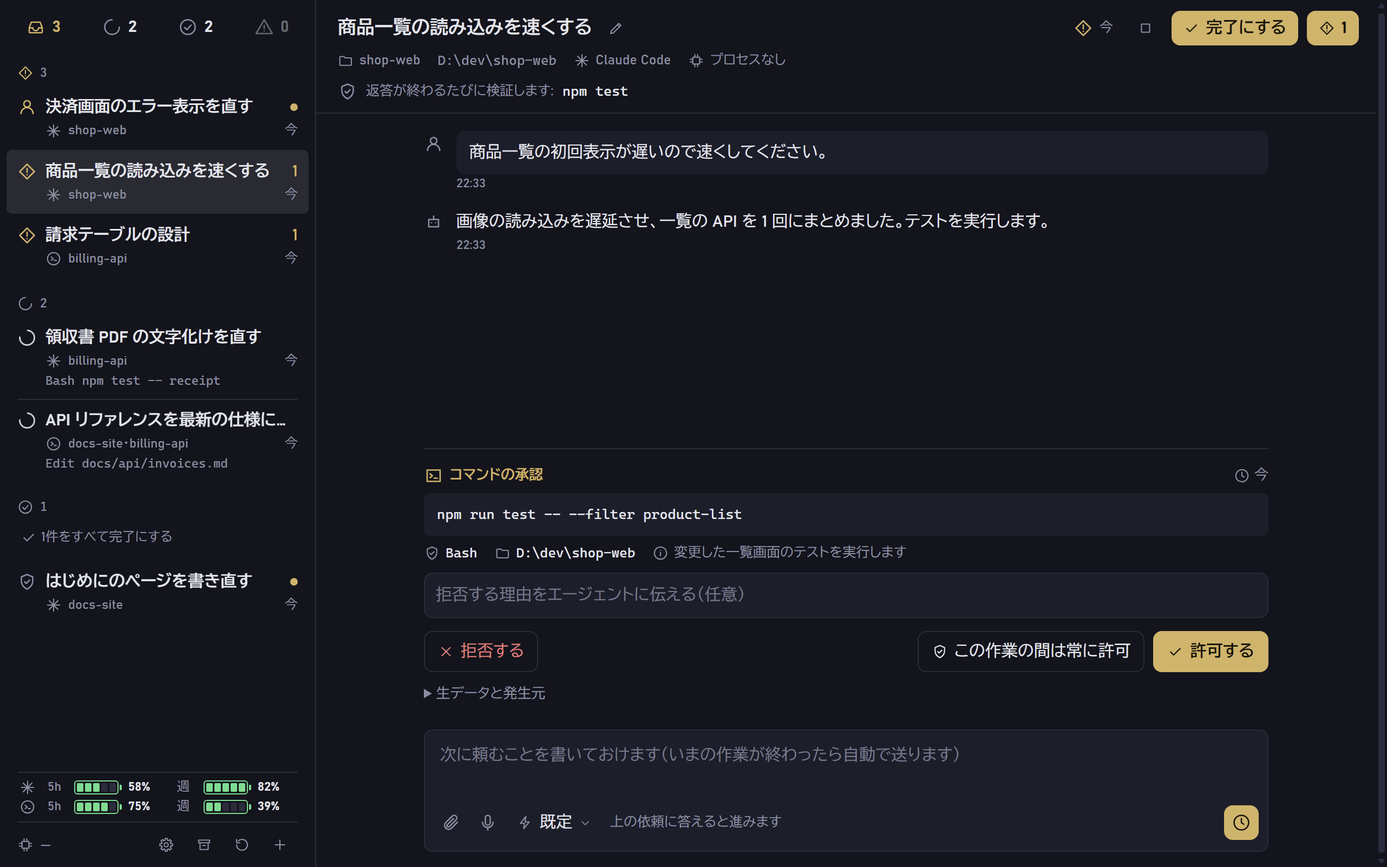
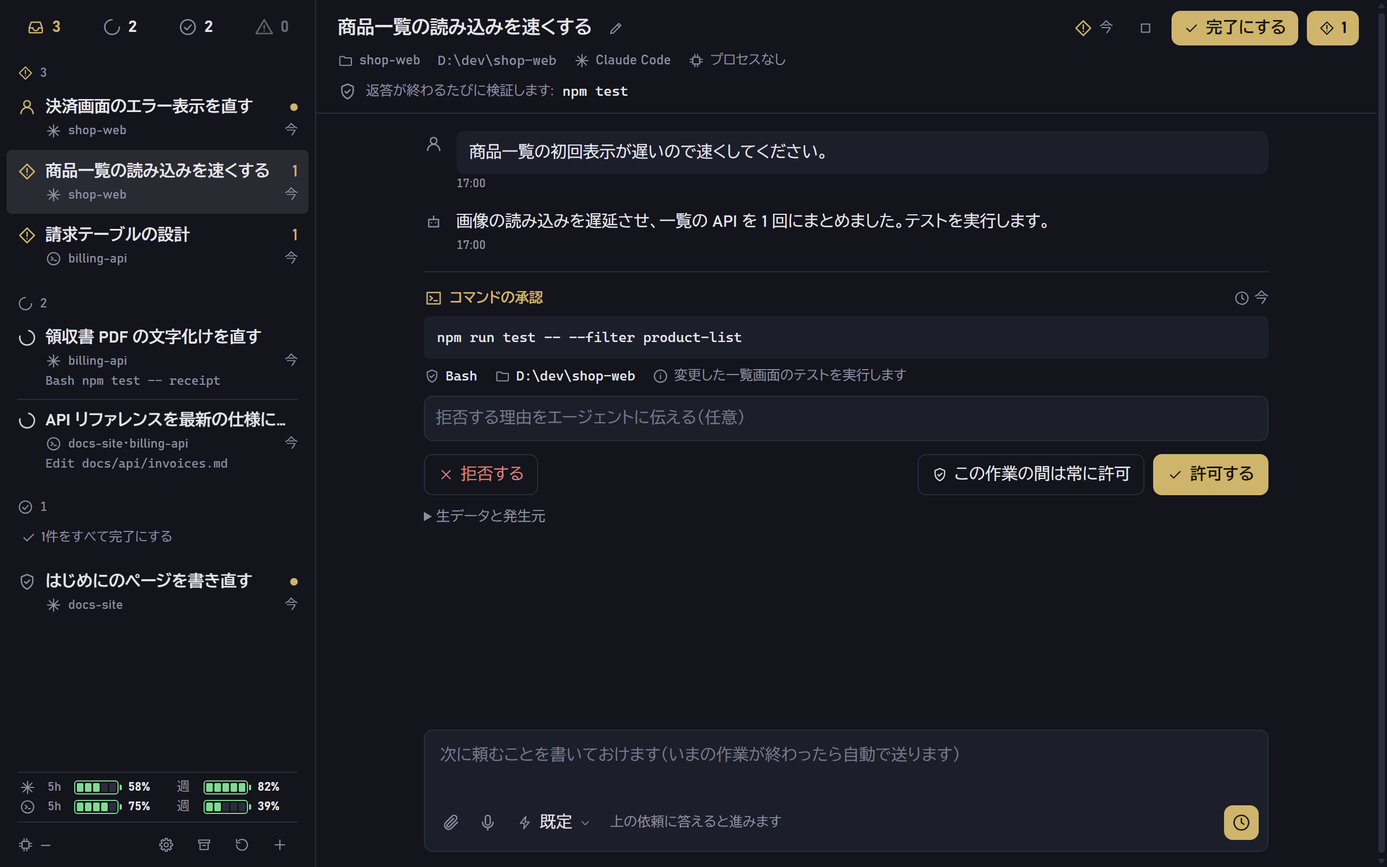
v0.7.0 の更新を反映
Synced-From: 8a344ba3d698fe49355c7bd3845fdda2202cd3e9

diff --git a/packages/provider-shared/src/reply-questions.ts b/packages/provider-shared/src/reply-questions.ts
@@ -9,6 +9,8 @@
 //   - the helper model decides what belongs together (it reads the meaning; the rules below are its instructions)
 //   - this module turns its JSON into a clean, bounded list (pure, no model): it never invents a split by itself, it only
 //     cleans up what came back (empty, duplicate and over-long parts) so the screen always gets something sane
+//   - a closed question ("進めてよいですか") offers no options in its words, but can be answered with yes or no: those two
+//     are added, when the model says so (`yesNo`) or the question's own ending plainly asks for it (isClosedQuestion)
 //
 // Kept small on purpose: the inbox shows every question of a reply in one ticket, answered with one "send" button.
 
@@ -30,7 +32,7 @@ export const MAX_QUESTIONS = 4;
 export const MAX_OPTIONS = 6;
 
 /** The JSON shape the helper model is asked to give, as it appears in its instructions. */
-export const QUESTIONS_SHAPE = '"questions": [{"text": "質問文", "multiSelect": true または false, "options": [{"label": "短い選択肢名", "description": "補足または null"}]}]';
+export const QUESTIONS_SHAPE = '"questions": [{"text": "質問文", "multiSelect": true または false, "yesNo": true または false, "options": [{"label": "短い選択肢名", "description": "補足または null"}]}]';
 
 /** The helper model's instructions for `questions`. */
 export const QUESTIONS_RULES = [
@@ -38,7 +40,30 @@ export const QUESTIONS_RULES = [
   'questions は「決めること」1つにつき1問にする。返答が別々のことを決めさせている（対象・話題・課題が違う選択肢の組がある）なら、選択肢を一つの問題にまとめず、決めることごとに別の問題に分ける。例: 「EXP-2を採用／EXP-2を破棄／EXP-3を実施」と「作者アドレスを切り替える／作者アドレスの設定を戻す」は、決めることが違うので2問にする。',
   '1問の options には、その問いへの答えになるものだけを入れる（返答の言葉を使う、最大6個）。text はその問いだけを短く書く（ほかの問いの内容を混ぜない）。返答に選択肢が示されていなければ options は空配列。',
   'multiSelect: その問いの選択肢がどれか1つを選ぶ択一なら false。いくつ選んでもよい（並べて実行できる別々の作業の候補など）なら true。',
+  'yesNo: 「はい」か「いいえ」で答えられる問い（「進めてよいですか」「マージしますか」「この方針で大丈夫ですか」など）なら true。選択肢の中から選ぶ問いや、内容を答える問い（「どちらにしますか」「名前は何にしますか」）なら false。',
 ].join('\n');
+
+/** The two answers a closed question is given when it offers none of its own. */
+export const YES_NO: ReplyOption[] = [
+  { label: 'はい', description: null },
+  { label: 'いいえ', description: null },
+];
+
+/** Words that make a question ask for something other than yes or no: which one, what, how, or this-or-that. */
+const OPEN_WORDS = /どちら|どっち|どれ|どの|何|なに|なん|いつ|どこ|だれ|誰|どう|どんな|いくつ|いくら|それとも|\b(?:which|what|how|when|where|who|why)\b|\bor\b/i;
+/** Endings that ask for permission or confirmation. */
+const CLOSED_JA = /(?:て|で)(?:も)?(?:よい|良い|いい|よろしい|大丈夫|問題ない|構わない)(?:です|でしょう)?か|(?:て|で)(?:も)?(?:構いません|差し支えありません)か|(?:し|でき|進め|始め|続け|入れ|作り|消し|戻し|使い|直し|分け|出し)(?:ます|ましょう)か|(?:です|でしょう)か$/;
+const CLOSED_EN = /^(?:should|shall|can|could|may|do|does|did|is|are|was|were|would|will|have|has)\b/i;
+
+/**
+ * The question plainly asks for a yes or a no, by its own words: a request for permission or confirmation, with no
+ * "which", "what" or "this or that" in it. Used only when the model gave no options and did not say (`yesNo`).
+ */
+export function isClosedQuestion(text: string): boolean {
+  const t = text.trim().replace(/[?？。!！\s]+$/u, '');
+  if (!t || OPEN_WORDS.test(t)) return false;
+  return CLOSED_JA.test(t) || CLOSED_EN.test(t);
+}
 
 const str = (v: unknown): string | null => (typeof v === 'string' && v.trim() ? v.trim() : null);
 
@@ -53,7 +78,7 @@ export function readReplyQuestions(j: unknown): ReplyQuestion[] {
   const usedLabels = new Set<string>();
   for (const q of raw) {
     if (out.length >= MAX_QUESTIONS) break;
-    const x = (q && typeof q === 'object' ? q : {}) as { text?: unknown; multiSelect?: unknown; options?: unknown };
+    const x = (q && typeof q === 'object' ? q : {}) as { text?: unknown; multiSelect?: unknown; yesNo?: unknown; options?: unknown };
     const text = str(x.text);
     if (!text) continue;
     const options: ReplyOption[] = [];
@@ -70,7 +95,9 @@ export function readReplyQuestions(j: unknown): ReplyQuestion[] {
       same.options.push(...options.slice(0, MAX_OPTIONS - same.options.length));
       continue;
     }
-    out.push({ text, multiSelect: x.multiSelect === true && options.length > 1, options });
+    // A closed question with no options of its own is answered with yes or no (typed words still win over them).
+    const closed = options.length === 0 && (x.yesNo === true || (x.yesNo !== false && isClosedQuestion(text)));
+    out.push({ text, multiSelect: x.multiSelect === true && options.length > 1, options: closed ? YES_NO.map((o) => ({ ...o })) : options });
   }
   return out;
 }

diff --git a/packages/server/public/js/ui/views/session.js b/packages/server/public/js/ui/views/session.js
@@ -61,8 +61,10 @@ export function sessionView(id) {
   const jump = el('div', { class: 's-jump', hidden: true }, el('button', { class: 'ib', title: '新しい記録へ', 'aria-label': '新しい記録へ', onclick: () => { body.scrollTop = body.scrollHeight; } }, icon('down')));
   // Messages sent from here that the record does not show yet: on screen from the moment they are sent.
   const outbox = el('div', { class: 'inner outbox' });
-  const body = el('div', { class: 's-body' }, el('div', { class: 'inner' }, earlier), log, outbox, jump);
-  const pending = el('div', {});
+  // What the work is waiting for sits right under the record and scrolls with it, so a long question never leaves
+  // the record a sliver of the screen.
+  const pending = el('div', { class: 'inner pending' });
+  const body = el('div', { class: 's-body' }, el('div', { class: 'inner' }, earlier), log, outbox, pending, jump);
   const text = el('textarea', { rows: '2', 'aria-label': '追加の指示' });
   text.value = store.composerDrafts.get(id) ?? '';
   const send = el('button', { class: 'primary ib' }, icon('send'));
@@ -76,7 +78,8 @@ export function sessionView(id) {
   const speak = el('button', { type: 'button', class: 'quiet ib', title: '音声で返信（Space 長押し）', 'aria-label': '音声で返信', onclick: () => beginVoice('toggle', { replyTo: id }) }, icon('mic'));
   card.append(text, el('div', { class: 'bar' }, att.button, speak, effort.node, hint, sendErr, el('span', { class: 'grow' }), send));
   const stepsSlot = el('div', { class: 'steps-slot' }); // the switch between the steps and the record sits on the composer's top right
-  const foot = el('div', { class: 's-foot' }, el('div', { class: 'inner' }, pending, held, att.tray, stepsSlot, card));
+  const footInner = el('div', { class: 'inner' }, held, att.tray, stepsSlot, card);
+  const foot = el('div', { class: 's-foot' }, footInner);
   const screen = el('div', { class: 'session' });
   $('main').replaceChildren(screen);
   put(screen,
@@ -220,6 +223,9 @@ export function sessionView(id) {
         const steps = s.completion === 'human_steps' ? s.task?.humanSteps ?? [] : [];
         const stepsMode = steps.length > 0 && stepsShown.get(id) !== false;
         screen.classList.toggle('steps-mode', stepsMode);
+        // The record is hidden while the steps are shown: what the work waits for then stays above the composer.
+        if (stepsMode) { if (pending.parentNode !== footInner) footInner.prepend(pending); }
+        else if (pending.parentNode !== body) body.insertBefore(pending, jump);
         const toggle = (yes, label) => el('button', { class: 'quiet steps-toggle', onclick: () => showSteps(yes) }, icon(yes ? 'user' : 'terminal', 's'), label);
         put(stepsSlot, steps.length > 0 && (stepsMode ? toggle(false, 'これまでの経過を見る') : toggle(true, '作業を表示する')));
         if (stepsMode) put(verdict, stepsBox(s, { titled: false }));
@@ -236,7 +242,14 @@ export function sessionView(id) {
         put(hint, s.lifecycle === 'queued' ? '順番が来たら自動で始まります' : s.lifecycle === 'waiting_for_user' ? '上の依頼に答えると進みます' : waitsBg ? 'バックグラウンドの作業が終わると、エージェントが続きを始めます' : busy ? '作業が終わったら自動で届きます'
           : [el('kbd', { title: 'Tabで次の作業へ' }, 'Tab'), icon('down', 's')]);
       }
+      const known = new Set([...pending.children].map((n) => n.dataset.key));
+      const stick = atBottom();
       sync(pending, mine, (i) => i.id, ticketSig, (i) => ticket(i, { linkToSession: false }));
+      // A request that just arrived is brought into view if the record was followed to its end; otherwise the arrow shows it is there.
+      if (mine.some((i) => !known.has(String(i.id)))) {
+        if (stick) body.scrollTop = body.scrollHeight;
+        else jump.hidden = false;
+      }
       if (rev < 0) { rev = s.transcriptRev; load(true); }
       else if (s.transcriptRev !== rev) { rev = s.transcriptRev; load(false); }
     },

diff --git a/packages/server/test/reader-live.ts b/packages/server/test/reader-live.ts
@@ -10,7 +10,7 @@ interface Case {
   name: string;
   reply: string;
   background?: string[];
-  expect: { continues: boolean; steps: boolean; after?: boolean; question?: boolean; questions?: number };
+  expect: { continues: boolean; steps: boolean; after?: boolean; question?: boolean; questions?: number; yesNo?: boolean };
 }
 const cases: Case[] = [
   { name: '完了報告だけ', reply: 'ログイン画面の入力チェックを直しました。`npm test` も全件通っています。', expect: { continues: false, steps: false } },
@@ -22,6 +22,9 @@ const cases: Case[] = [
   { name: '開発サーバーを残しただけ', reply: '開発サーバーを起動しました。http://localhost:3000 で画面を確認できます。変更は以上です。', background: ['npm run dev'], expect: { continues: false, steps: false } },
   { name: '質問で終わる', reply: '実装方法が2つあります。A: 既存のテーブルに列を足す。B: 新しいテーブルを作る。どちらにしますか？', expect: { continues: false, steps: false, question: true } },
   { name: '別々の2つの判断', reply: '見比べの結果が出ました。次の対応を決めてください。\n- EXP-2を採用する\n- EXP-2を破棄する（元の指示文より良くならなかったため）\n- EXP-3を実施する（改訂版で次の実験。約25ドルの見込み）\n\nそれとは別に、課題 git-author-email-private について:\n- GitHubの作者アドレスを非公開用に切り替える\n- 私用アドレスの設定に戻す\nどちらにしますか？', expect: { continues: false, steps: false, question: true, questions: 2 } },
+  { name: 'はい／いいえで答える確認', reply: 'スキーマの変更方針をまとめました。\n1. users テーブルに email_verified 列を足す\n2. 既存の行は false で埋める\n\nこの方針で進めてよいですか？', expect: { continues: false, steps: false, question: true, yesNo: true } },
+  { name: 'はい／いいえで答える確認（英語）', reply: 'I found the cause: the cache key ignores the locale. Fixing it means clearing all cached pages once. Should I go ahead?', expect: { continues: false, steps: false, question: true, yesNo: true } },
+  { name: '内容を答える質問', reply: '新しいコマンドを足します。コマンド名は何にしますか？', expect: { continues: false, steps: false, question: true, yesNo: false } },
   { name: '任意の提案', reply: '対応しました。必要であれば、ドキュメントの更新もできます。', expect: { continues: false, steps: false } },
 ];
 
@@ -33,8 +36,8 @@ for (const c of cases) {
     bad++;
     continue;
   }
-  const got = { continues: r.agentContinues, steps: r.steps.length > 0, after: r.steps.some((s) => !!s.after), question: r.questions.length > 0, questions: r.questions.length };
-  const ok = got.continues === c.expect.continues && got.steps === c.expect.steps && (c.expect.after === undefined || got.after === c.expect.after) && (c.expect.question === undefined || got.question === c.expect.question) && (c.expect.questions === undefined || got.questions === c.expect.questions);
+  const got = { continues: r.agentContinues, steps: r.steps.length > 0, after: r.steps.some((s) => !!s.after), question: r.questions.length > 0, questions: r.questions.length, yesNo: r.questions[0]?.options.map((o) => o.label).join('/') === 'はい/いいえ' };
+  const ok = got.continues === c.expect.continues && got.steps === c.expect.steps && (c.expect.after === undefined || got.after === c.expect.after) && (c.expect.question === undefined || got.question === c.expect.question) && (c.expect.questions === undefined || got.questions === c.expect.questions) && (c.expect.yesNo === undefined || got.yesNo === c.expect.yesNo);
   if (!ok) bad++;
   console.log(`${ok ? 'OK  ' : 'NG  '}  ${c.name}\n        ${JSON.stringify(r)}`);
 }

diff --git a/packages/server/public/js/ui/ticket.js b/packages/server/public/js/ui/ticket.js
@@ -1,15 +1,17 @@
 import { loadRaw, sendAnswer, submitAnswers } from '../logic/actions.js';
 import { ago } from '../logic/format.js';
 import { SEND_KEYS } from '../logic/platform.js';
+import { leadInText } from '../logic/text.js';
 import { toggleTicket } from '../logic/selectors.js';
 import { store } from '../logic/store.js';
 import { el } from './dom.js';
+import { richText } from './task-parts.js';
 import { icon } from './icons.js';
 import { go, render } from './shell.js';
 import { DECISION, kindOf, ptag } from './vocabulary.js';
 
 // Request tickets (shared by the inbox and the session screen).
-function questionBody(item) {
+function questionBody(item, { leadIn = true } = {}) {
   const draft = store.drafts.get(item.id) ?? store.drafts.set(item.id, {}).get(item.id);
   const locked = item.status !== 'pending';
   let n = 0;
@@ -38,7 +40,11 @@ function questionBody(item) {
   const submit = () => submitAnswers(item);
   // A summary that only repeats the questions below (a reply read as several questions) is not shown again.
   const repeatsQuestions = item.summary === item.questions.map((q) => q.text).join(' / ');
+  const lead = leadIn ? leadInText(item.context, [item.summary, ...item.questions.map((q) => q.text)]) : null;
   return [
+    // What the agent wrote just before asking: "is this approach OK?" can be answered without opening the work.
+    // Not on the work's own screen, where the same text is right above.
+    lead && el('div', { class: 'lead-in', tabindex: '0', 'aria-label': 'エージェントの説明' }, richText(lead, item.sessionId)),
     !repeatsQuestions && (item.questions.length > 1 || (item.allowDecline && item.summary !== item.questions[0]?.text)) && el('div', { class: 'note' }, item.summary),
     blocks,
     el('div', { class: 'acts' },
@@ -123,7 +129,7 @@ export function ticket(item, { linkToSession = true, collapsible = false } = {})
   }
   return el('section', { class: `ticket ${item.status}`, 'data-item': item.id, tabindex: '-1', 'aria-label': `${kind.word}: ${item.summary}` },
     head,
-    item.type === 'user_question' ? questionBody(item) : approvalBody(item),
+    item.type === 'user_question' ? questionBody(item, { leadIn: linkToSession }) : approvalBody(item),
     item.status === 'answering' && el('div', { class: 'note' }, '回答は送信済みです。エージェントが受け取ると自動で消えます。止まっているようなら、作業を開いて状態を確認してください。'),
     store.errors.has(item.id) && el('div', { class: 'err', role: 'alert' }, store.errors.get(item.id)),
     details);

diff --git a/packages/server/public/js/ui/views/settings.js b/packages/server/public/js/ui/views/settings.js
@@ -15,6 +15,7 @@ import { editMessage } from '../message-dialog.js';
 import { go, route } from '../shell.js';
 import { SETTINGS_SECTIONS, sectionAnchor } from '../settings-sections.js';
 import { setTheme, theme, THEMES } from '../theme.js';
+import { canSeeThrough, CLEAR_STEP, MAX_CLEAR, setWindowClear, windowClear } from '../window-opacity.js';
 import { APPROVAL_OPTS, PROVIDER, SHORTCUTS } from '../vocabulary.js';
 
 /** A setting: name (and an optional one-line note) at the left, the control at the right. */
@@ -106,6 +107,16 @@ export function settingsView() {
 
   // ---- 外観 ----
   const themeSeg = segmented('テーマ', THEMES, theme(), setTheme);
+  // The window's see-through: only in the desktop app. Applied while the slider moves, so the effect is seen at once.
+  const clearAt = windowClear();
+  const clearOut = el('span', { class: 'unit clear-val' }, `${clearAt}%`);
+  const clearRange = el('input', { type: 'range', class: 'clear-range', min: '0', max: String(MAX_CLEAR), step: String(CLEAR_STEP), value: String(clearAt), 'aria-label': 'ウィンドウの透過度', 'aria-valuetext': `${clearAt}%` });
+  clearRange.addEventListener('input', () => {
+    const v = Number(clearRange.value);
+    clearOut.textContent = `${v}%`;
+    clearRange.setAttribute('aria-valuetext', `${v}%`);
+    setWindowClear(v);
+  });
 
   // ---- 使うAI ----
   // Which subscriptions the human has: only those are offered when choosing an AI, and only their plan usage is shown
@@ -321,7 +332,8 @@ export function settingsView() {
   $('main').replaceChildren(el('div', { class: 'pad settings' },
     el('h1', {}, icon('gear', 'l'), '設定', el('button', { class: 'quiet narrow-only', onclick: () => go('#/') }, icon('back', 's'), '戻る')),
     group('look',
-      row('テーマ', null, themeSeg)),
+      row('テーマ', null, themeSeg),
+      canSeeThrough() && row('ウィンドウの透過度', el('small', {}, '0%で透けません。上げるほど、後ろの画面が透けて見えます'), clearRange, clearOut)),
     group('agents',
       ...agentSwitches.map(({ p, t }) => row(el('span', { class: 'agent-name' }, icon(p, 's'), PROVIDER[p]), null, t))),
     group('work',

diff --git a/packages/provider-shared/test/reply-questions.test.ts b/packages/provider-shared/test/reply-questions.test.ts
@@ -52,3 +52,23 @@ test('several-at-once is kept only when there is more than one option to take', 
   ] });
   assert.deepEqual(got.map((q) => q.multiSelect), [true, false]);
 });
+
+test('a closed question with no options of its own is answered with yes or no', () => {
+  const yn = ['はい', 'いいえ'];
+  const labels = (q: { text: string; yesNo?: boolean; options?: unknown[] }) => readReplyQuestions({ questions: [{ options: [], ...q }] })[0]!.options.map((o) => o.label);
+  // the model says so
+  assert.deepEqual(labels({ text: 'この内容で反映しますか', yesNo: true }), yn);
+  // the model did not say: the question's own ending asks for permission or confirmation
+  for (const text of ['この方針で進めてよいですか？', 'このまま進めても大丈夫でしょうか', 'PRをマージしますか？', '古いブランチを消しても構いませんか', 'これで問題ないですか', 'Should I open a PR?']) {
+    assert.deepEqual(labels({ text }), yn, text);
+  }
+  // asking which, what or how, or this-or-that, is not a yes or no
+  for (const text of ['AとBどちらにしますか？', '名前は何にしますか', 'どう進めましょうか', 'AにしますかそれともBにしますか', 'Which branch should I use?', 'Should I use A or B?', '気になる点を教えてください']) {
+    assert.deepEqual(labels({ text }), [], text);
+  }
+  // the model's own "no" wins over the ending, and options of its own are never replaced
+  assert.deepEqual(labels({ text: '進めてよいですか', yesNo: false }), []);
+  assert.deepEqual(labels({ text: '進めてよいですか', yesNo: true, options: [{ label: 'すぐ進める' }, { label: '明日にする' }] }), ['すぐ進める', '明日にする']);
+  const [q] = readReplyQuestions({ questions: [{ text: '進めてよいですか', multiSelect: true, options: [] }] });
+  assert.equal(q!.multiSelect, false, 'yes and no exclude each other');
+});

diff --git a/packages/server/public/app.css b/packages/server/public/app.css
@@ -393,6 +393,8 @@ button.cmd { display: inline; padding: 0; border: 0; border-radius: 2px; font: 0
 /* ---------- agent replies rendered from Markdown ---------- */
 .msg .text.rich { white-space: normal; }
 .md { line-height: 1.65; }
+/* A question's lead-in: what the agent wrote just before asking, readable in place (long ones scroll). */
+.lead-in { max-height: min(44vh, 420px); overflow: auto; margin: 2px 0 12px; padding: 10px 14px; border-left: 3px solid var(--line); border-radius: var(--r); background: var(--raise); overscroll-behavior: contain; }
 .md > :first-child { margin-top: 0; }
 .md > :last-child { margin-bottom: 0; }
 .md p { margin: 0 0 8px; }
@@ -608,6 +610,8 @@ button.primary.danger-fill { background: var(--red); border-color: var(--red); c
 .set-row .ctl .stepper .big { font-size: 18px; min-width: 2.2ch; }
 .set-row .ctl input.num { width: 9ch; text-align: right; }
 .set-row .ctl .unit { color: var(--ink-2); font-size: 13px; }
+.clear-range { width: 180px; accent-color: var(--acc); }
+.clear-val { min-width: 3.5ch; text-align: right; font-variant-numeric: tabular-nums; }
 /* projects: one column per control (説明・承認・worktree・こだわり・メッセージ・環境変数), named once above */
 .set-head { display: grid; grid-template-columns: minmax(0, 1fr) 64px 64px 64px 64px 64px 64px; gap: 16px; font-size: 11.5px; color: var(--ink-2); padding: 0 0 2px; text-align: center; }
 .set-row.proj { grid-template-columns: minmax(0, 1fr) 464px; }

diff --git a/packages/core/test/core.test.ts b/packages/core/test/core.test.ts
@@ -109,6 +109,21 @@ test('redelivery of the same provider request does not create a second item', ()
   assert.equal(core.state.items.size, 1);
 });
 
+test('a question keeps what the agent wrote just before asking, across a restart; an empty one is not kept', () => {
+  const store = new MemoryEventStore();
+  const { core } = setup(store);
+  const projectId = core.addProject('p', 'C:\\work\\ctx');
+  const s = core.createSession({ projectId, provider: 'claude', title: 'task' });
+  core.sessionUpdate(s.id, { process: 'alive', lifecycle: 'running' });
+  const plan = '## 方針\n1. スキーマを変える\n2. 移行スクリプトを書く';
+  const withPlan = core.attentionOpen({ sessionId: s.id, requestId: 'a', type: 'user_question', summary: 'この方針で進めて良いですか', questions: [q], context: plan, reply: () => {} });
+  const blank = core.attentionOpen({ sessionId: s.id, requestId: 'b', type: 'user_question', summary: 'q', questions: [q], context: '  ', reply: () => {} });
+  assert.equal(core.state.items.get(withPlan)!.context, plan);
+  assert.equal(core.state.items.get(blank)!.context, null);
+  const again = new ControlCore({ store: new MemoryEventStore(store.readAll()) });
+  assert.equal(again.state.items.get(withPlan)!.context, plan);
+});
+
 test('answers are validated against the question and the allowed decisions', () => {
   const { core } = setup();
   const a = sessionWithQuestion(core);

diff --git a/packages/server/public/js/ui/window-opacity.js b/packages/server/public/js/ui/window-opacity.js
@@ -1,0 +1,25 @@
+// How see-through the desktop app's window is: a choice of this screen only (kept in the browser, like the theme),
+// handed to the window through apps/desktop/preload.cjs. In a browser there is no window to change, so nothing is offered.
+const KEY = 'crWindowClear';
+/** Percent of see-through, 0 (solid) .. MAX. Past this the text behind starts to win over the app's own. */
+export const MAX_CLEAR = 60;
+export const CLEAR_STEP = 5;
+
+/** True when the page runs in the desktop app and can change its window. */
+export const canSeeThrough = () => typeof globalThis.orreryShell?.opacity === 'function';
+
+export function windowClear() {
+  try {
+    const v = Number(localStorage.getItem(KEY));
+    return Number.isFinite(v) ? Math.min(MAX_CLEAR, Math.max(0, Math.round(v / CLEAR_STEP) * CLEAR_STEP)) : 0;
+  } catch {
+    return 0;
+  }
+}
+export function applyWindowClear(v = windowClear()) {
+  globalThis.orreryShell?.opacity?.(1 - v / 100);
+}
+export function setWindowClear(v) {
+  try { localStorage.setItem(KEY, String(v)); } catch {}
+  applyWindowClear(v);
+}

diff --git a/packages/server/public/js/logic/text.js b/packages/server/public/js/logic/text.js
@@ -30,3 +30,17 @@ export function toolSummary(text) {
   if (nl < 0) return { glyph: 'terminal', line: short(text, 160), more: text.length > 160 ? text : null };
   return { glyph: 'terminal', line: short(text.slice(0, nl), 160), more: text.slice(nl + 1).trim() ? text : null };
 }
+
+/**
+ * What the agent wrote before asking, minus a closing paragraph that is only the question itself (a question read from
+ * a reply is usually its last paragraph, and the ticket shows it right below). Null when nothing else is left.
+ */
+export function leadInText(context, questionTexts) {
+  if (!context) return null;
+  const norm = (t) => String(t ?? '').replace(/[*_`#>\s]/g, '').replace(/[?？。.!！:：]+$/u, '');
+  const asked = new Set(questionTexts.map(norm).filter(Boolean));
+  const paras = context.trim().split(/\n\s*\n/);
+  while (paras.length && asked.has(norm(paras[paras.length - 1]))) paras.pop();
+  const left = paras.join('\n\n').trim();
+  return left || null;
+}

diff --git a/packages/core/src/core.ts b/packages/core/src/core.ts
@@ -36,6 +36,8 @@ export interface OpenAttention {
   passive?: boolean;
   approval?: ApprovalRequest | null;
   rawPayloadRef?: string | null;
+  /** What the agent wrote just before asking, shown above the question. */
+  context?: string | null;
   /**
    * Bound to the exact originating provider request. Never leaves the core. May throw if delivery fails.
    * Not needed for a passive request: its answer goes to CoreOptions.onPassiveAnswer instead.
@@ -540,6 +542,7 @@ export class ControlCore {
       rawPayloadRef: input.rawPayloadRef ?? null,
       ...(input.allowDecline ? { allowDecline: true } : {}),
       ...(input.passive ? { passive: true } : {}),
+      ...(input.context?.trim() ? { context: input.context } : {}),
     });
     return itemId;
   }

diff --git a/packages/server/src/app.ts b/packages/server/src/app.ts
@@ -169,6 +169,9 @@ export class App extends EventEmitter {
         return this.core.attentionOpen({
           ...input,
           summary: redact(input.summary),
+          // A question often points back at what was just written ("is this approach OK?"): keep it with the question.
+          // The transcript is redacted when written; redacted again here like every other text that enters the core.
+          context: input.type === 'user_question' ? redact(input.context ?? this.store.turnReplies(input.sessionId, 6000)) || null : input.context && redact(input.context),
           approval: input.approval ? { ...input.approval, subject: input.approval.subject === null ? null : redact(input.approval.subject) } : input.approval,
         });
       },
